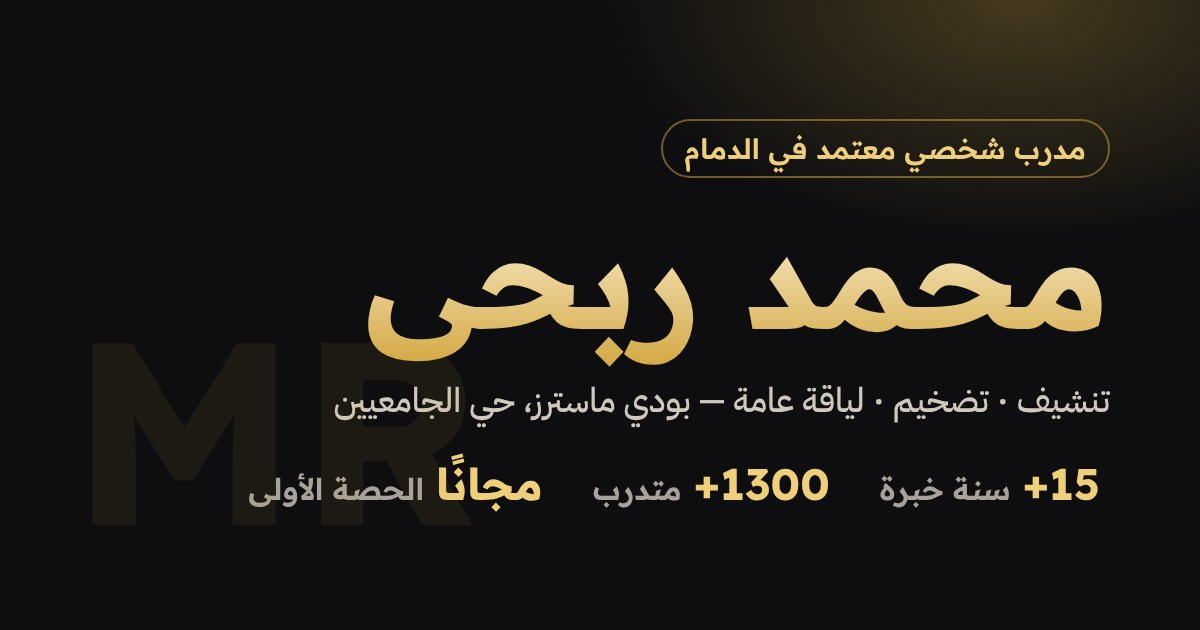
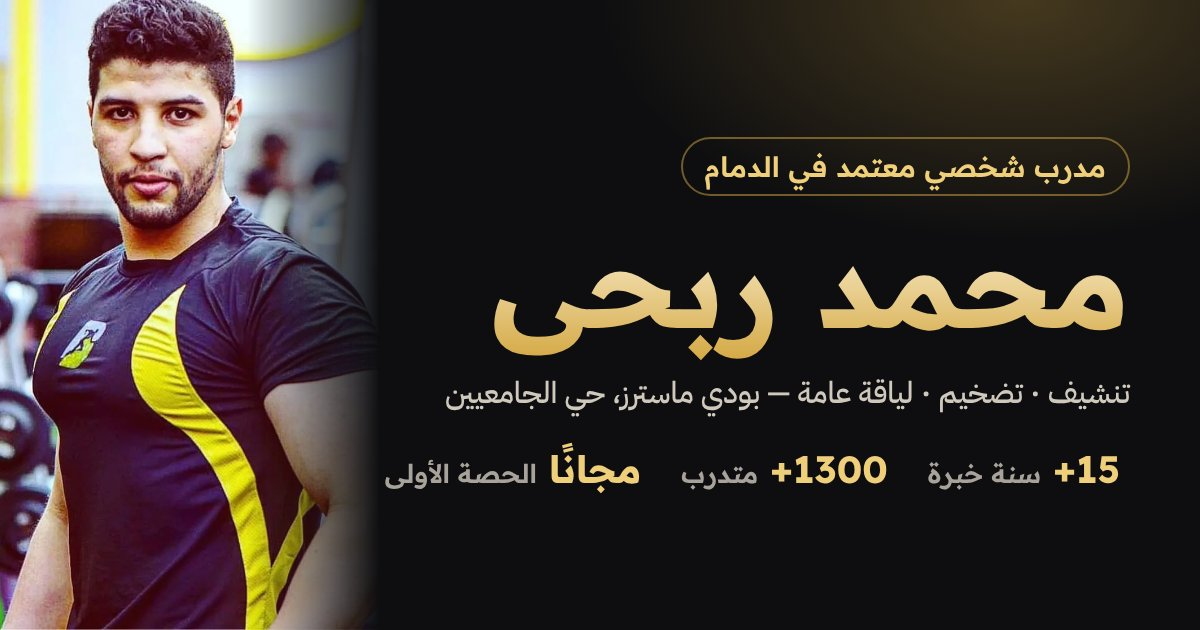
Add coach photo to hero, schema and share image
Claude-Session: https://claude.ai/code/session_01KCPbvbw6uDtHpovYnSKEP6

diff --git a/index.html b/index.html
@@ -36,6 +36,7 @@
    "name": "محمد ربحي",
    "alternateName": "Mohammad Rabhi",
    "jobTitle": "مدرب شخصي معتمد",
+   "image": "img/coach.jpg",
    "description": "مدرب شخصي معتمد في الدمام بخبرة أكثر من 15 سنة وأكثر من 1300 متدرب: تنشيف، تضخيم ولياقة عامة.",
    "telephone": "+966598286282",
    "worksFor": {
@@ -231,6 +232,7 @@
 }
 </script>
 <meta name="theme-color" content="#0e0e10">
+<link rel="preload" as="image" href="img/coach.webp" imagesrcset="img/coach-sm.webp 500w, img/coach.webp 900w" imagesizes="(max-width:860px) 380px, 460px">
 <link rel="preconnect" href="https://fonts.googleapis.com">
 <link rel="preconnect" href="https://fonts.gstatic.com" crossorigin>
 <link href="https://fonts.googleapis.com/css2?family=IBM+Plex+Sans+Arabic:wght@400;500;600&family=Readex+Pro:wght@500;600;700&display=swap" rel="stylesheet">
@@ -289,7 +291,7 @@ header{position:sticky;top:0;z-index:50;background:rgba(14,14,16,.82);backdrop-f
 .meta .open{color:var(--gold-2)}
 .cta-row{display:flex;flex-wrap:wrap;gap:12px}
 .portrait{position:relative;aspect-ratio:4/5;border-radius:28px;overflow:hidden;background:linear-gradient(160deg,#2a2418,#121214 70%);border:1px solid rgba(212,168,67,.35);box-shadow:0 30px 80px -30px rgba(0,0,0,.8),0 0 0 8px rgba(212,168,67,.05)}
-.portrait img{width:100%;height:100%;object-fit:cover}
+.portrait img{width:100%;height:100%;object-fit:cover;object-position:50% 15%}
 .portrait .mono{position:absolute;inset:0;display:grid;place-items:center;font-family:var(--head);font-weight:700;font-size:120px;color:rgba(212,168,67,.18);letter-spacing:.04em;direction:ltr}
 .portrait .ribbon{position:absolute;bottom:16px;inset-inline:16px;display:flex;justify-content:space-between;align-items:center;padding:12px 16px;border-radius:16px;background:rgba(14,14,16,.78);backdrop-filter:blur(8px);border:1px solid var(--line);font-size:13px}
 .portrait .ribbon b{font-family:var(--head);color:var(--gold-2);font-size:15px}
@@ -568,7 +570,7 @@ footer .wrap{display:flex;flex-wrap:wrap;gap:10px 24px;justify-content:space-bet
         </div>
       </div>
       <div class="portrait" id="portrait">
-        <div class="mono">MR</div>
+        <img src="img/coach.webp" srcset="img/coach-sm.webp 500w, img/coach.webp 900w" sizes="(max-width:860px) 380px, 460px" width="900" height="1116" alt="الكوتش محمد ربحي، مدرب شخصي في الدمام" fetchpriority="high" decoding="async">
         <div class="ribbon"><span>خبرة في التدريب</span><b>+15 سنة</b></div>
       </div>
     </div>
@@ -857,7 +859,6 @@ const CONFIG = {
   phone: "966598286282",               // رقم الواتساب بالصيغة الدولية بدون + أو أصفار
   phoneDisplay: "059 828 6282",
   map: "https://maps.app.goo.gl/JeaG2WP5Nt9PUvWaA",
-  heroPhoto: "",                       // مثال: "img/coach.jpg"
 
   // حسابات التواصل — اترك الرابط فاضي لإخفاء الأيقونة
   socials: { instagram: "", tiktok: "", snapchat: "", youtube: "", x: "" },
@@ -883,10 +884,6 @@ $('#bigNum').textContent = CONFIG.phoneDisplay;
 $('#yr').textContent = new Date().getFullYear();
 $$('.qchips a').forEach(a => { a.href = wa(a.dataset.q); a.target = '_blank'; a.rel = 'noopener'; });
 
-if (CONFIG.heroPhoto) {
-  const p = $('#portrait'); $('.mono', p).remove();
-  const img = new Image(); img.src = CONFIG.heroPhoto; img.alt = 'الكوتش محمد ربحي'; p.prepend(img);
-}
 
 const icons = { instagram:'i-ig', tiktok:'i-tt', snapchat:'i-snap', youtube:'i-yt', x:'i-x' };
 $('#socials').innerHTML = Object.entries(CONFIG.socials).filter(([,u]) => u)

diff --git a/README.md b/README.md
@@ -4,7 +4,7 @@
 
 ## التعديل
 كل البيانات في كائن `CONFIG` أسفل ملف `index.html`:
-- `heroPhoto`: الصورة الرئيسية (ضعها في مجلد `img/`).
+- الصورة الرئيسية: `img/coach.webp` و`img/coach-sm.webp` (استبدلهما بنفس الاسم).
 - `socials`: روابط إنستغرام وتيك توك وسناب ويوتيوب وX (الفارغ يختفي).
 - `medals`: الميداليات والبطولات (القسم يظهر تلقائيًا عند إضافتها).
 - `gallery`: صور ومقاطع التدريب (القسم يظهر تلقائيًا).
